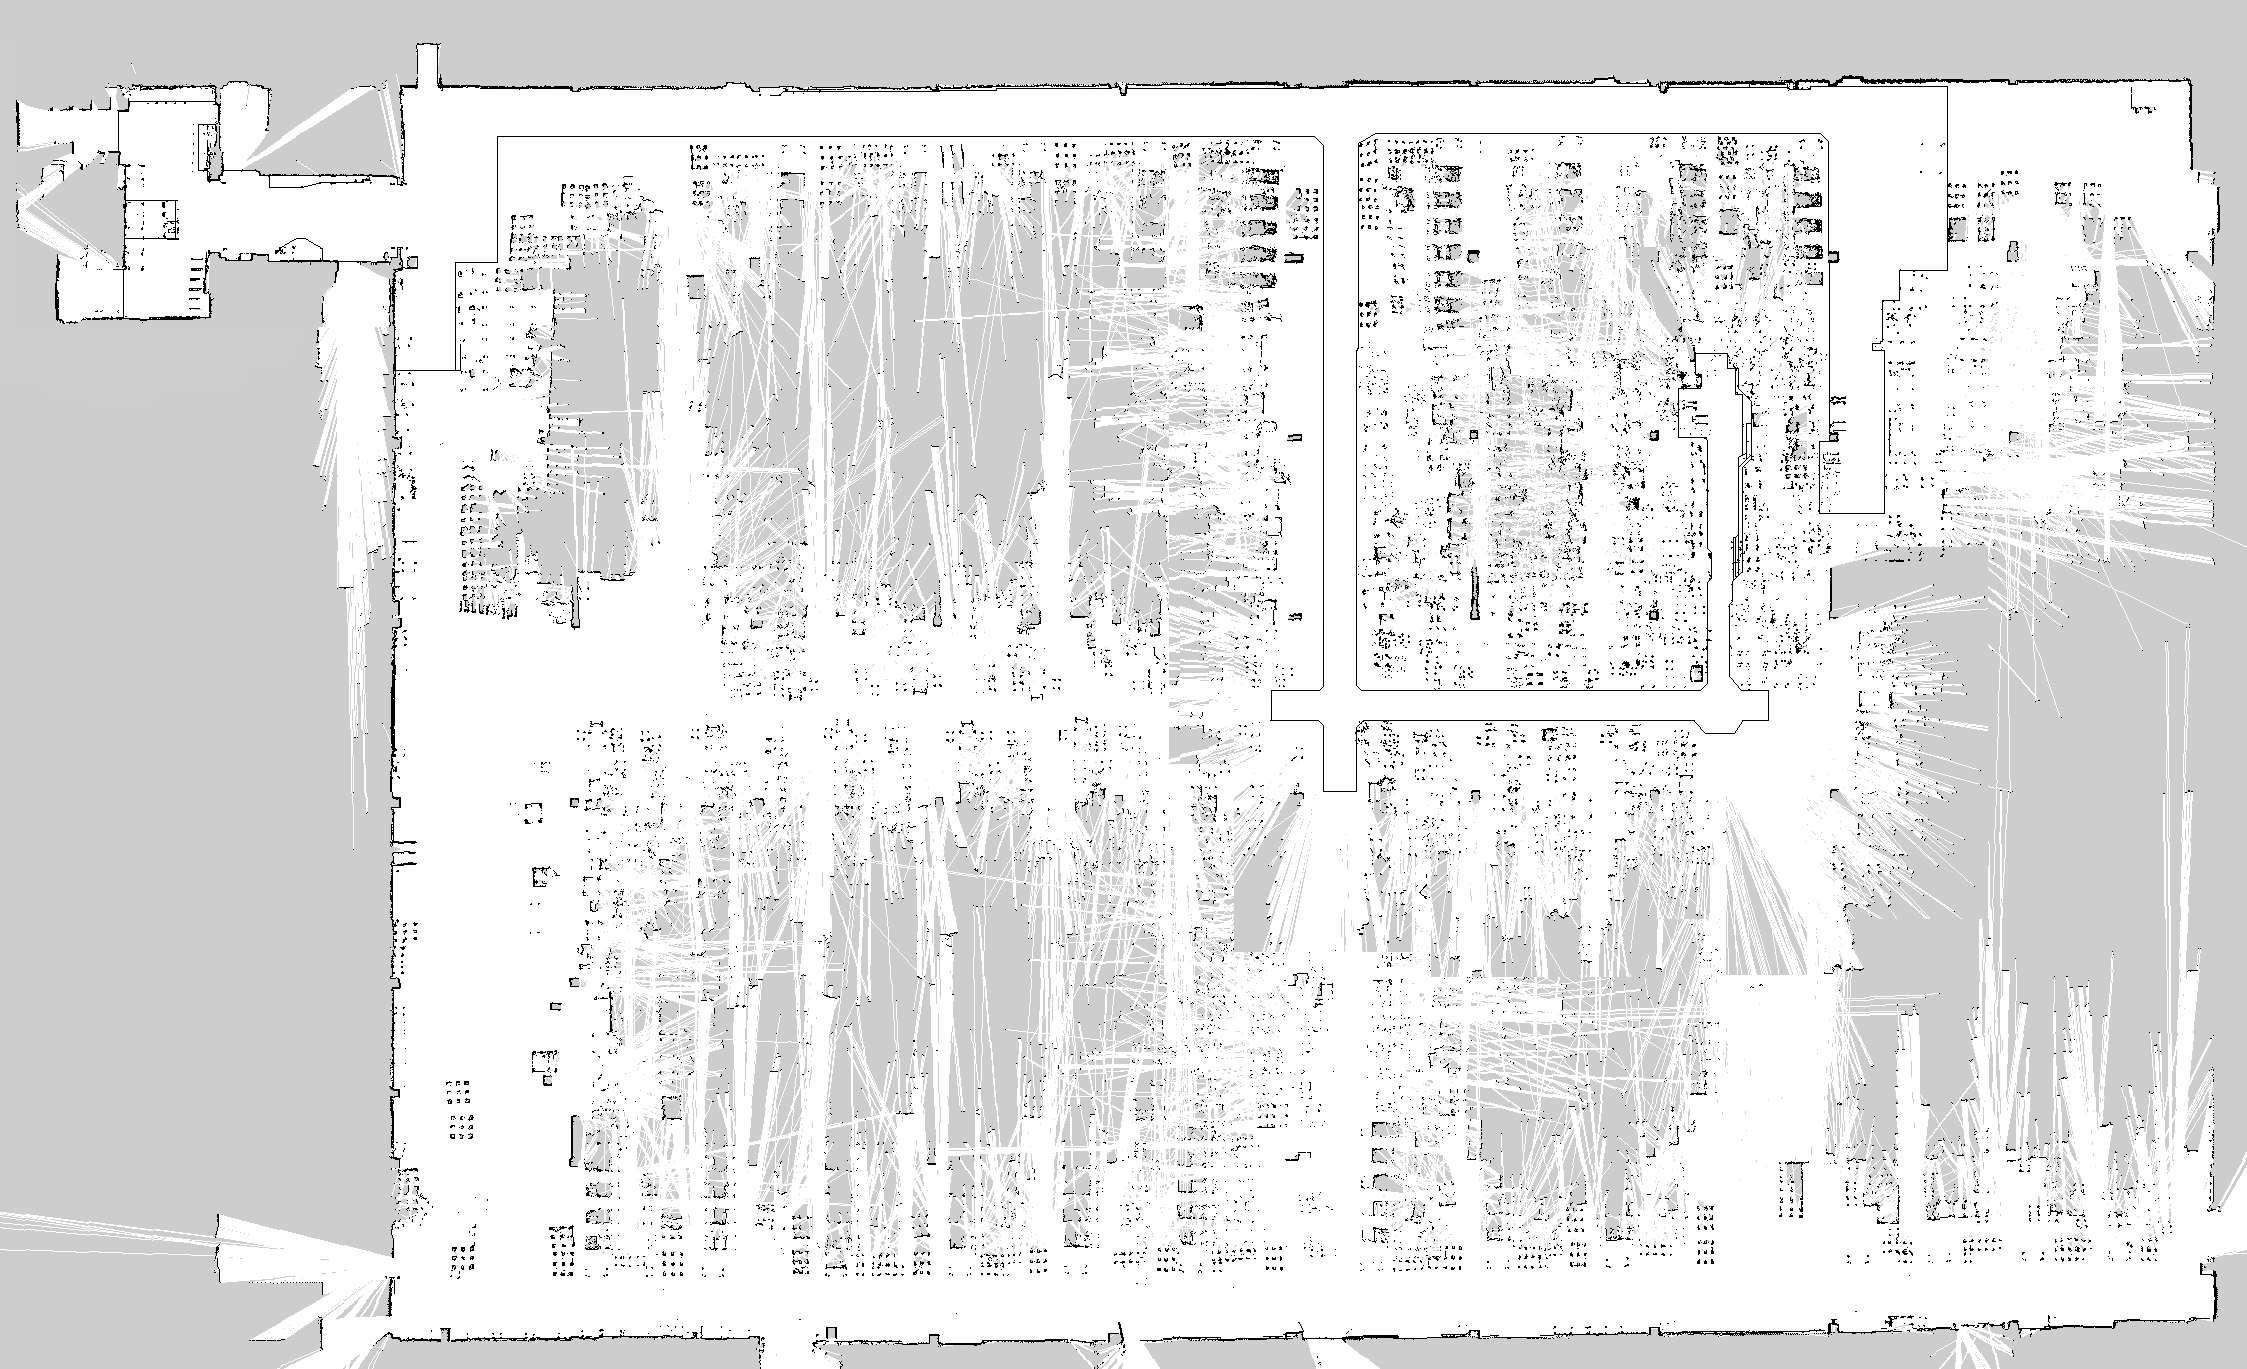
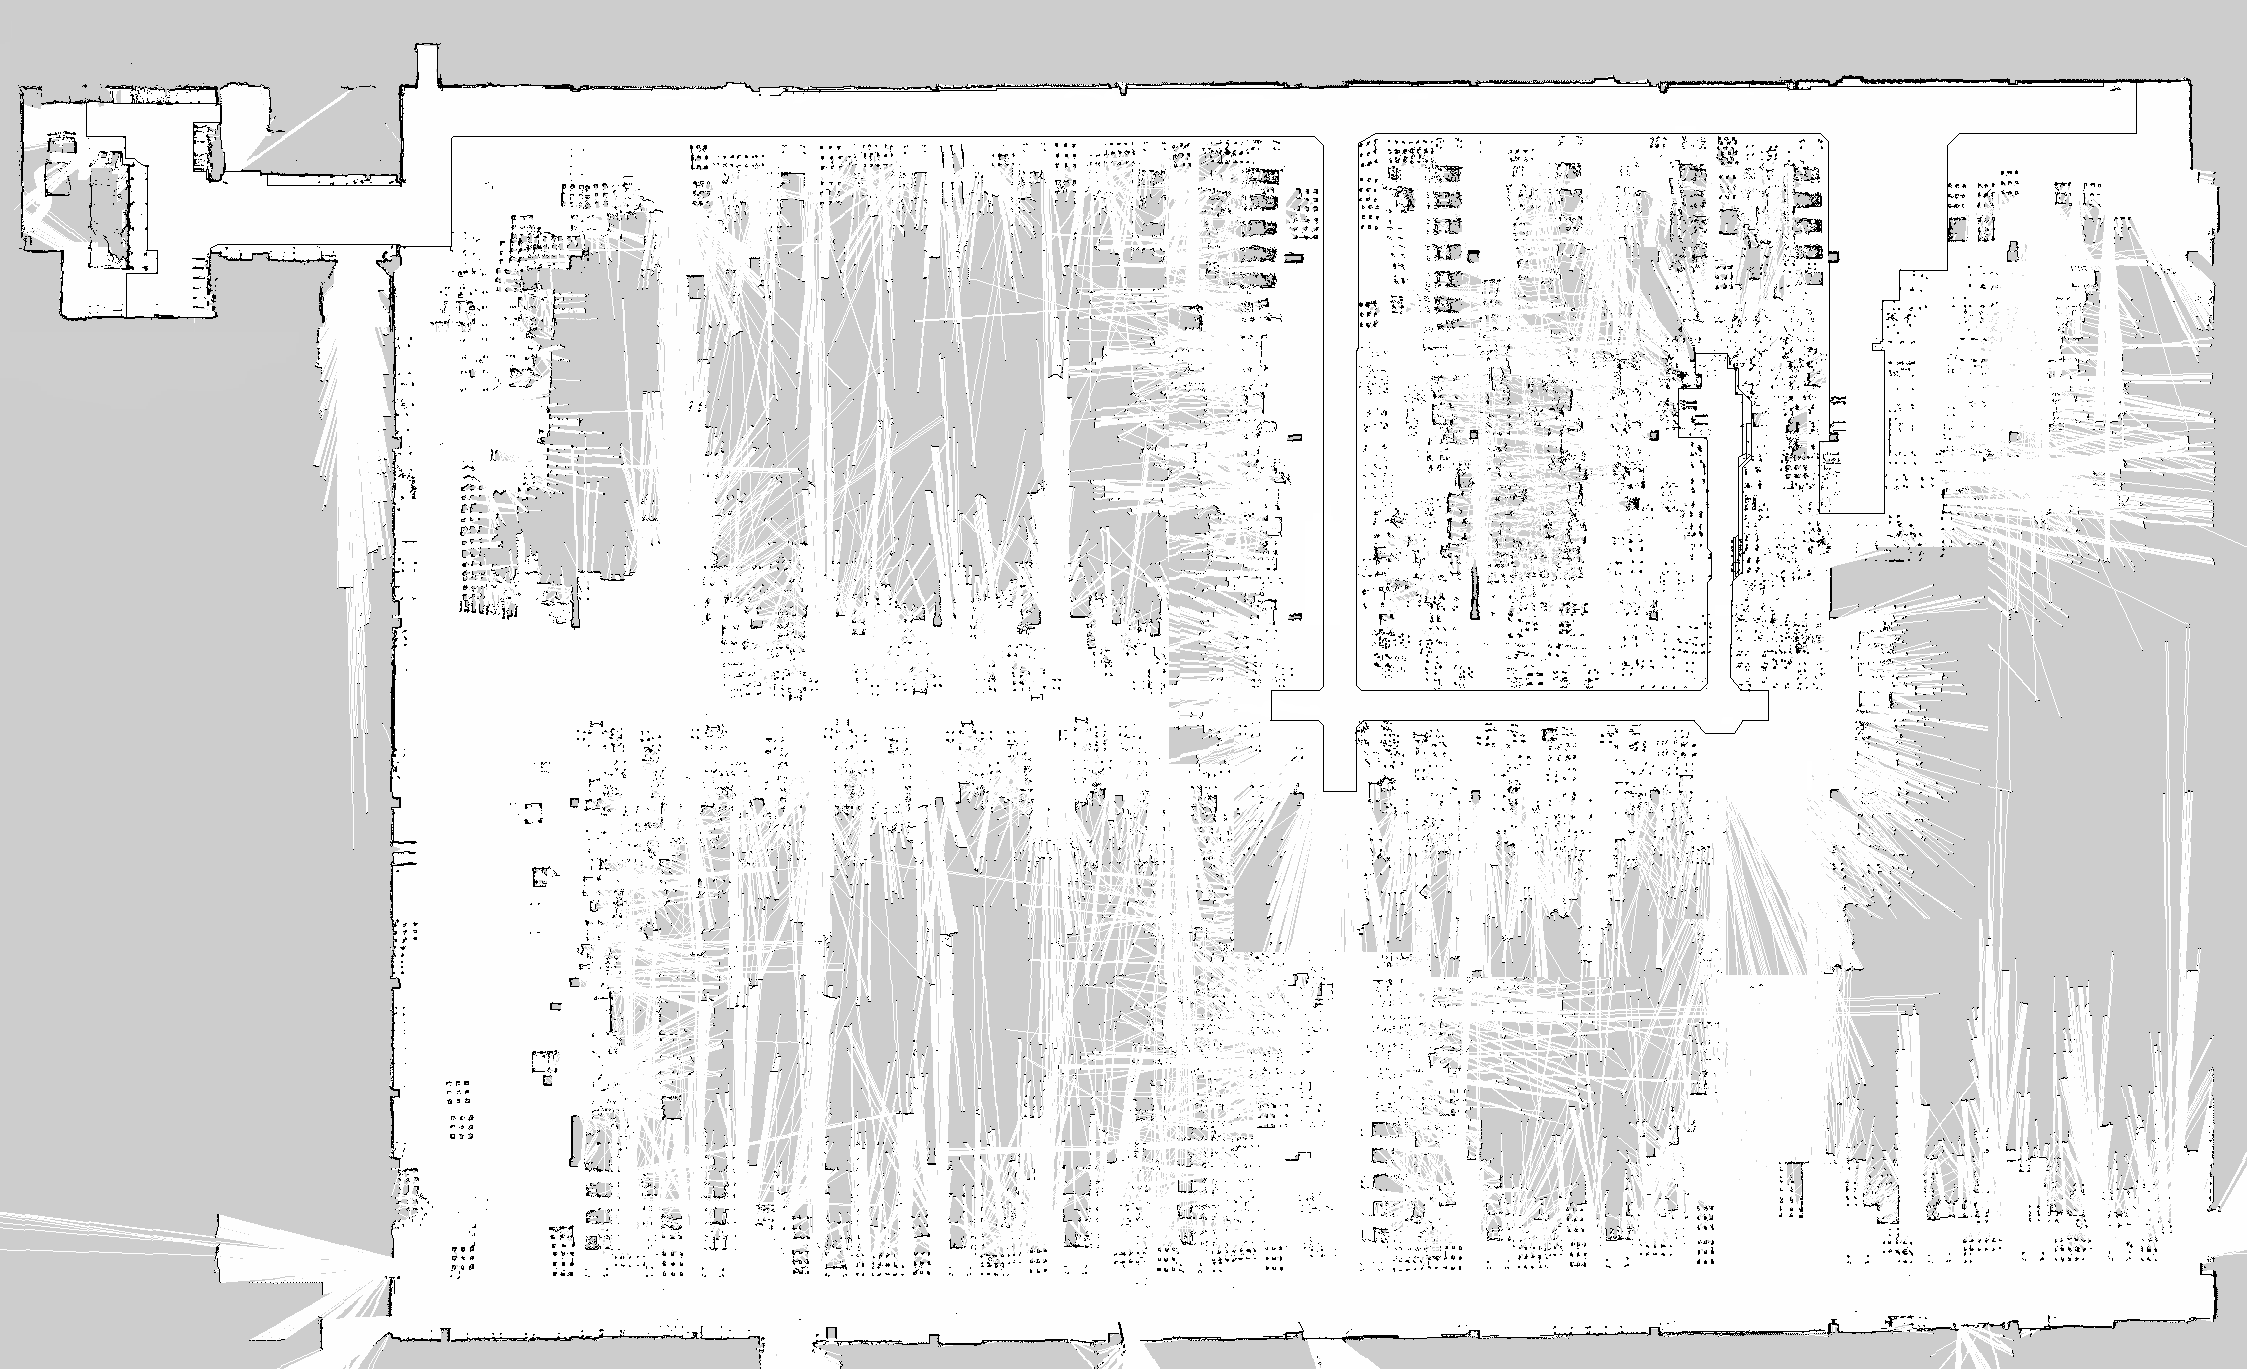
thay doi layout tp2, cap nhat vi tra tha hang chung tp23

diff --git a/amr_workcell_adapter/amr_workcell_adapter/workcell_adapter.py b/amr_workcell_adapter/amr_workcell_adapter/workcell_adapter.py
@@ -113,13 +113,19 @@ def main(argv=sys.argv):
     # Initialize robot API for this workcell
     workcell_mgr_yaml = config_yaml["workcell_manager"]
     update_period = 1.0 / workcell_mgr_yaml.get("workcell_state_update_frequency", 10.0)
-    api_prefix = "http://" + workcell_mgr_yaml["ip"] + ":" + str(workcell_mgr_yaml["port"])
-    api = MachineAPI(api_prefix, workcell_mgr_yaml["user"], workcell_mgr_yaml["password"])
+    api_prefix = (
+        "http://" + workcell_mgr_yaml["ip"] + ":" + str(workcell_mgr_yaml["port"])
+    )
+    api = MachineAPI(
+        api_prefix, workcell_mgr_yaml["user"], workcell_mgr_yaml["password"]
+    )
 
     # Publishers:
     dispenser_state_pub = node.create_publisher(DispenserState, "/dispenser_states", 10)
 
-    dispenser_result_pub = node.create_publisher(DispenserResult, "/dispenser_results", 10)
+    dispenser_result_pub = node.create_publisher(
+        DispenserResult, "/dispenser_results", 10
+    )
 
     ingestor_state_pub = node.create_publisher(IngestorState, "/ingestor_states", 10)
 
@@ -143,9 +149,9 @@ def main(argv=sys.argv):
                 # add Dispenser context
                 if "pickup_dispenser" in wp[2]:
                     dispenser_name = wp[2]["pickup_dispenser"]
-                    assert (
-                        dispenser_name not in dispensers
-                    ), f"Pickup_dispenser [{dispenser_name}] is duplicated, please check!"
+                    # assert (
+                    #     dispenser_name not in dispensers
+                    # ), f"Pickup_dispenser [{dispenser_name}] is duplicated, please check!"
 
                     is_machine = False
                     if search_mode_docking(wp[2]["dock_name"]) == "mpickup":
@@ -163,9 +169,9 @@ def main(argv=sys.argv):
                 # add Ingestor context
                 elif "dropoff_ingestor" in wp[2]:
                     ingestor_name = wp[2]["dropoff_ingestor"]
-                    assert (
-                        ingestor_name not in ingestors
-                    ), f"Dropoff_ingestor [{ingestor_name}] is duplicated, please check!"
+                    # assert (
+                    #     ingestor_name not in ingestors
+                    # ), f"Dropoff_ingestor [{ingestor_name}] is duplicated, please check!"
 
                     is_machine = False
                     if search_mode_docking(wp[2]["dock_name"]) == "mdropoff":
@@ -294,7 +300,9 @@ class DispenserAdapter:
         self.state.mode = DispenserState.IDLE
 
         if is_machine:
-            assert api is not None, f"Dispenser [{name}] is machine but no configure api!"
+            assert (
+                api is not None
+            ), f"Dispenser [{name}] is machine but no configure api!"
 
         # Threading variables
         self._lock = threading.Lock()
@@ -423,7 +431,9 @@ class DispenserAdapter:
         with self._lock:
             request_guid = self.request_guid
             if request_guid is not None:
-                self.node.get_logger().info(f"Dispenser [{self.name}] stop requested from RMF!")
+                self.node.get_logger().info(
+                    f"Dispenser [{self.name}] stop requested from RMF!"
+                )
                 self.request_guid = None
 
     def perform_operate(self, mode: int):
@@ -483,7 +493,9 @@ class IngestorAdapter:
         self.state.mode = IngestorState.IDLE
 
         if is_machine:
-            assert api is not None, f"Ingestor [{name}] is machine but no configure api!"
+            assert (
+                api is not None
+            ), f"Ingestor [{name}] is machine but no configure api!"
 
         # Threading variables
         self._lock = threading.Lock()
@@ -611,7 +623,9 @@ class IngestorAdapter:
         with self._lock:
             request_guid = self.request_guid
             if request_guid is not None:
-                self.node.get_logger().info(f"Ingestor [{self.name}] stop requested from RMF!")
+                self.node.get_logger().info(
+                    f"Ingestor [{self.name}] stop requested from RMF!"
+                )
                 self.request_guid = None
 
     def perform_operate(self, mode: int):
